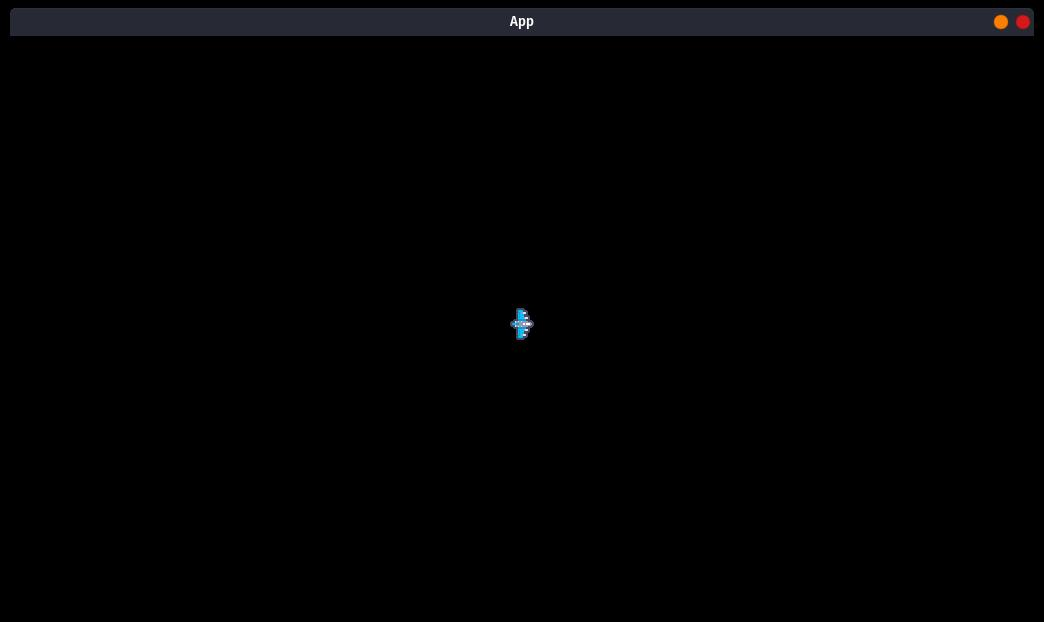
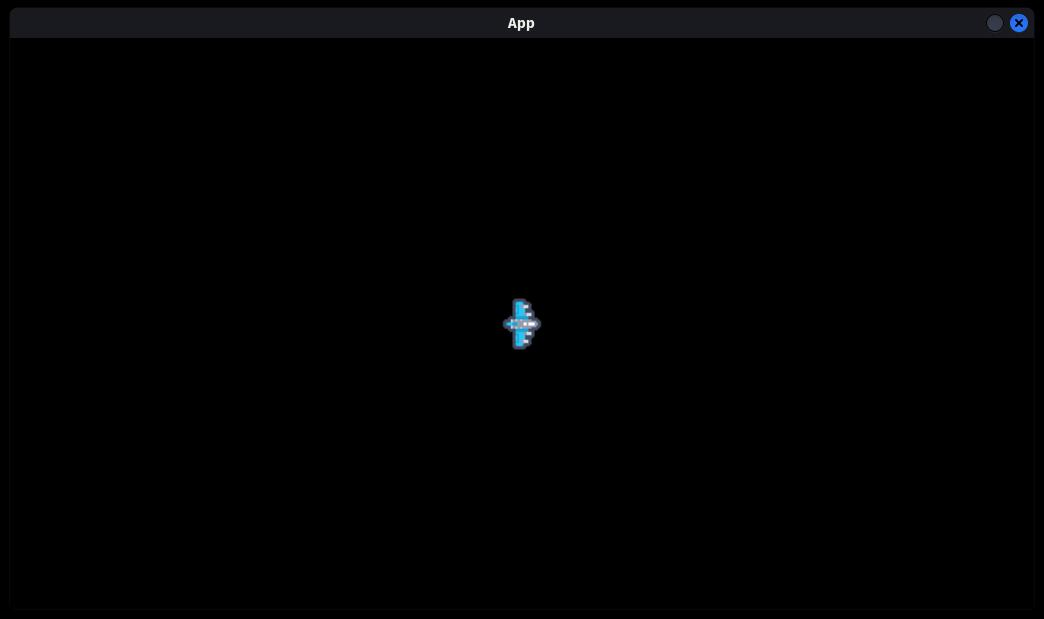
Some modifications on the last tutorial

Changed region(s): [[0.0307, 0.0, 1.0, 0.0614], [0.4598, 0.4604, 0.5211, 0.5832]]

diff --git a/ceramic/_posts/2022-01-16-plane-shooter-#2:-shooting.md b/ceramic/_posts/2022-01-16-plane-shooter-#2:-shooting.md
@@ -11,11 +11,13 @@ The window’s width and height can be set from the Project.hx file located in t
 
 <!--more-->
 
-The new function of the Project.hx file is the starting point of our app. This is where the window settings are specified and the main scene is loaded. By default, the width and height have a size of 640 and 480 pixels respectively. This is a 640/480 = 4/3 aspect ratio. Most computer screens have a 16/9 aspect ratio, so I changed the width to 1024 and the height to 576. Check [this website](https://pacoup.com/2011/06/12/list-of-true-169-resolutions/){:target="_blank"} for a list of 16/9 resolutions.
+The new function of the Project.hx file is the starting point of our app. This is where the window settings are specified and the main scene is loaded. By default, the width and height of the game have a size of 640 and 480 pixels respectively. This is a 640/480 = 4/3 aspect ratio. Most computer screens have a 16/9 aspect ratio, so I kept the width of 640 but I changed the height to 576. Also, I changed the size of the window to 1024 width and 570 height using the windowSize function. The scaling is set to FIT by default, so, the game will scale to fit the window, but the game size won’t change. Check [this website](https://pacoup.com/2011/06/12/list-of-true-169-resolutions/){:target="_blank"} for a list of 16/9 resolutions.
 
 {% highlight haxe %}
-settings.targetWidth = 1024;
-settings.targetHeight = 576;
+settings.targetWidth = 640;
+settings.targetHeight = 360;
+settings.windowSize(1024, 570);
+settings.scaling = FIT;
 {% endhighlight %}
 
 Run the game and you will see that the window dimensions have changed to the new ones.
